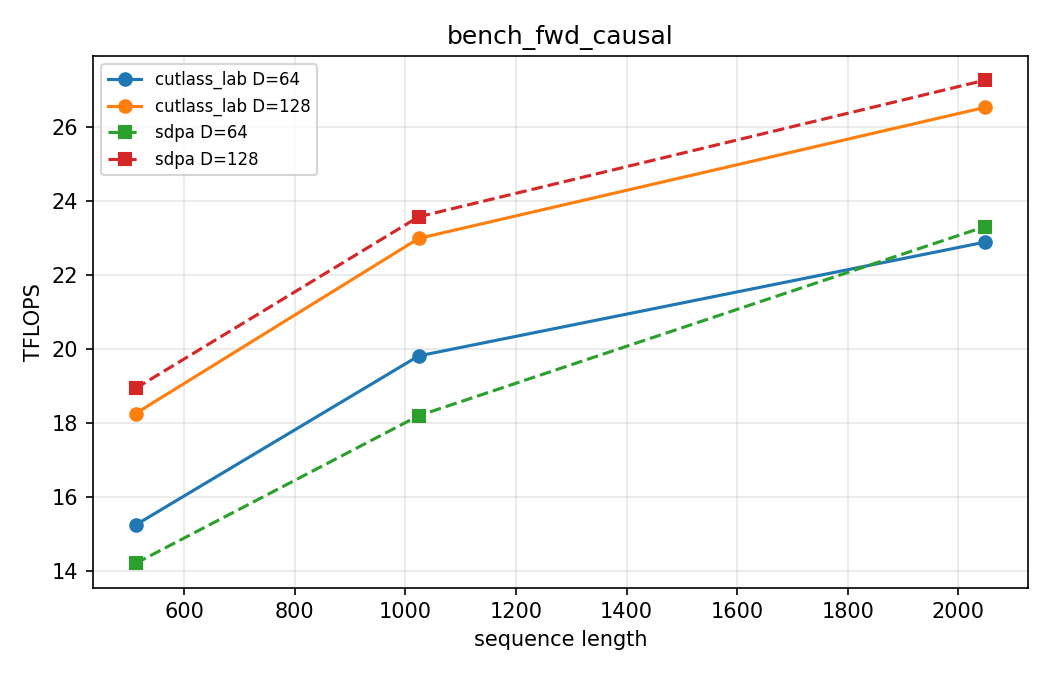
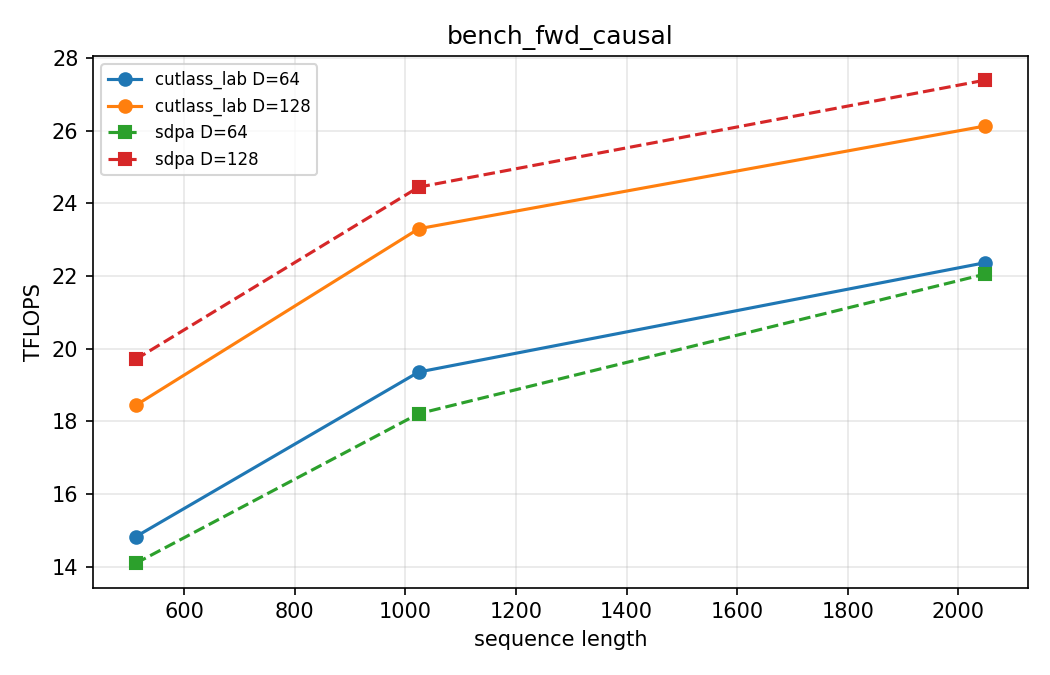
bench: add official FA2 and paged-decode comparisons

diff --git a/benchmarks/bench_decode.py b/benchmarks/bench_decode.py
@@ -1,0 +1,151 @@
+#!/usr/bin/env python3
+"""Paged-KV decode: our CuTe kernel vs official flash_attn_with_kvcache.
+
+Run with the nano-vllm Python 3.12 environment:
+  PYTHONPATH=/home/hxt/flash-attn-cutlass-lab \
+    /home/hxt/nano-vllm/.venv/bin/python benchmarks/bench_decode.py
+"""
+
+from __future__ import annotations
+
+import argparse
+import csv
+import math
+import statistics
+from pathlib import Path
+
+import torch
+
+try:
+    from flash_attn import flash_attn_with_kvcache
+    HAS_OFFICIAL = True
+except Exception:
+    flash_attn_with_kvcache = None
+    HAS_OFFICIAL = False
+
+import flash_attn_lab
+
+
+def time_ms(fn, warmup, iters, repeats):
+    for _ in range(warmup):
+        fn()
+    torch.cuda.synchronize()
+    samples = []
+    for _ in range(repeats):
+        start = torch.cuda.Event(enable_timing=True)
+        end = torch.cuda.Event(enable_timing=True)
+        start.record()
+        for _ in range(iters):
+            fn()
+        end.record()
+        torch.cuda.synchronize()
+        samples.append(start.elapsed_time(end) / iters)
+    return statistics.median(samples)
+
+
+def make_inputs(B, H, Hk, D, context, page_size, dtype):
+    max_pages = (context + page_size - 1) // page_size
+    num_pages = B * max_pages
+    k_cache = torch.randn((num_pages, page_size, Hk, D), dtype=dtype, device="cuda") * 0.5
+    v_cache = torch.randn((num_pages, page_size, Hk, D), dtype=dtype, device="cuda") * 0.5
+    block_table = torch.empty((B, max_pages), dtype=torch.int32, device="cuda")
+    for b in range(B):
+        block_table[b] = torch.randperm(num_pages, device="cuda")[:max_pages]
+    cache_seqlens = torch.full((B,), context, dtype=torch.int32, device="cuda")
+    q = torch.randn((B, 1, H, D), dtype=dtype, device="cuda") * 0.5
+    return q, k_cache, v_cache, block_table, cache_seqlens
+
+
+def main():
+    parser = argparse.ArgumentParser()
+    parser.add_argument("--dtype", default="bf16", choices=["bf16", "fp16"])
+    parser.add_argument("--batches", default="1,8")
+    parser.add_argument("--contexts", default="512,2048,4096")
+    parser.add_argument("--page-size", type=int, default=256)
+    parser.add_argument("--heads", type=int, default=16)
+    parser.add_argument("--headsk", type=int, default=8)
+    parser.add_argument("--dim", type=int, default=128)
+    parser.add_argument("--iters", type=int, default=50)
+    parser.add_argument("--warmup", type=int, default=10)
+    parser.add_argument("--repeats", type=int, default=3)
+    parser.add_argument("--out", default="benchmarks/results/bench_decode.csv")
+    args = parser.parse_args()
+
+    dtype = torch.bfloat16 if args.dtype == "bf16" else torch.float16
+    batches = [int(x) for x in args.batches.split(",") if x]
+    contexts = [int(x) for x in args.contexts.split(",") if x]
+    rows = []
+
+    for B in batches:
+        for context in contexts:
+            q, k_cache, v_cache, block_table, cache_seqlens = make_inputs(
+                B, args.heads, args.headsk, args.dim, context,
+                args.page_size, dtype,
+            )
+            scale = 1.0 / math.sqrt(args.dim)
+
+            out_ours, _ = flash_attn_lab.flash_attn_with_kvcache(
+                q, k_cache, v_cache, block_table, cache_seqlens, scale
+            )
+            if HAS_OFFICIAL:
+                out_off = flash_attn_with_kvcache(
+                    q, k_cache, v_cache,
+                    cache_seqlens=cache_seqlens,
+                    block_table=block_table,
+                    softmax_scale=scale,
+                    causal=True,
+                )
+                err = (out_ours.float() - out_off.float()).abs().max().item()
+            else:
+                err = float("nan")
+
+            t_ours = time_ms(
+                lambda: flash_attn_lab.flash_attn_with_kvcache(
+                    q, k_cache, v_cache, block_table, cache_seqlens, scale
+                ),
+                args.warmup, args.iters, args.repeats,
+            )
+            if HAS_OFFICIAL:
+                t_off = time_ms(
+                    lambda: flash_attn_with_kvcache(
+                        q, k_cache, v_cache,
+                        cache_seqlens=cache_seqlens,
+                        block_table=block_table,
+                        softmax_scale=scale,
+                        causal=True,
+                    ),
+                    args.warmup, args.iters, args.repeats,
+                )
+            else:
+                t_off = float("nan")
+            bytes_read = B * context * args.headsk * args.dim * 2 * 2
+            row = dict(
+                B=B, context=context, page_size=args.page_size,
+                H=args.heads, Hk=args.headsk, D=args.dim,
+                dtype=args.dtype,
+                ours_ms=t_ours, official_ms=t_off,
+                ours_tok_s=B / (t_ours * 1e-3),
+                official_tok_s=B / (t_off * 1e-3),
+                ours_gbps=bytes_read / (t_ours * 1e-3) / 1e9,
+                official_gbps=bytes_read / (t_off * 1e-3) / 1e9,
+                ratio=t_off / t_ours,
+                max_diff=err,
+            )
+            rows.append(row)
+            print(f"B={B:3d} ctx={context:5d} | ours {t_ours:.4f} ms "
+                  f"({row['ours_tok_s']:.1f} tok/s, {row['ours_gbps']:.1f} GB/s) | "
+                  f"official {t_off:.4f} ms ({row['official_tok_s']:.1f} tok/s, "
+                  f"{row['official_gbps']:.1f} GB/s) | speed {row['ratio']:.2f}x | "
+                  f"diff {err:.4f}")
+
+    out = Path(args.out)
+    out.parent.mkdir(parents=True, exist_ok=True)
+    with out.open("w", newline="") as f:
+        writer = csv.DictWriter(f, fieldnames=list(rows[0].keys()), lineterminator="\n")
+        writer.writeheader()
+        writer.writerows(rows)
+    print(f"\nwrote {out}")
+
+
+if __name__ == "__main__":
+    main()

diff --git a/benchmarks/bench_official.py b/benchmarks/bench_official.py
@@ -1,0 +1,148 @@
+#!/usr/bin/env python3
+"""Same-GPU comparison: our CuTe kernel vs official flash-attn 2.8.3.
+
+Run with the nano-vllm Python 3.12 environment:
+  PYTHONPATH=/home/hxt/flash-attn-cutlass-lab \
+    /home/hxt/nano-vllm/.venv/bin/python benchmarks/bench_official.py
+"""
+
+from __future__ import annotations
+
+import argparse
+import csv
+import math
+import statistics
+from pathlib import Path
+
+import torch
+from flash_attn import flash_attn_func, flash_attn_varlen_func
+
+import flash_attn_lab
+
+
+def time_ms(fn, warmup, iters, repeats):
+    for _ in range(warmup):
+        fn()
+    torch.cuda.synchronize()
+    samples = []
+    for _ in range(repeats):
+        start = torch.cuda.Event(enable_timing=True)
+        end = torch.cuda.Event(enable_timing=True)
+        start.record()
+        for _ in range(iters):
+            fn()
+        end.record()
+        torch.cuda.synchronize()
+        samples.append(start.elapsed_time(end) / iters)
+    return statistics.median(samples)
+
+
+def flops(B, H, S, D, causal):
+    valid = S * (S + 1) / 2 if causal else S * S
+    return 4.0 * B * H * valid * D
+
+
+def max_diff(a, b):
+    return (a.float() - b.float()).abs().max().item()
+
+
+def bench_fixed(B, H, Hk, S, D, dtype, causal):
+    torch.manual_seed(0)
+    q = torch.randn((B, S, H, D), dtype=dtype, device="cuda") * 0.5
+    k = torch.randn((B, S, Hk, D), dtype=dtype, device="cuda") * 0.5
+    v = torch.randn((B, S, Hk, D), dtype=dtype, device="cuda") * 0.5
+    scale = 1.0 / math.sqrt(D)
+
+    out_ours, _ = flash_attn_lab.flash_attn_func(q, k, v, causal, scale)
+    out_off = flash_attn_func(q, k, v, causal=causal, softmax_scale=scale)
+    err = max_diff(out_ours, out_off)
+
+    t_ours = time_ms(lambda: flash_attn_lab.flash_attn_func(q, k, v, causal, scale), 10, 50, 3)
+    t_off = time_ms(lambda: flash_attn_func(q, k, v, causal=causal, softmax_scale=scale), 10, 50, 3)
+    f = flops(B, H, S, D, causal)
+    return {
+        "mode": "fixed",
+        "lengths": str(S),
+        "B": B, "S": S, "H": H, "Hk": Hk, "D": D,
+        "causal": int(causal), "dtype": str(dtype).split(".")[-1],
+        "ours_ms": t_ours, "official_ms": t_off,
+        "ours_tflops": f / (t_ours * 1e-3) / 1e12,
+        "official_tflops": f / (t_off * 1e-3) / 1e12,
+        "max_diff": err,
+    }
+
+
+def bench_varlen(lengths, H, Hk, D, dtype, causal):
+    torch.manual_seed(1)
+    total = sum(lengths)
+    q = torch.randn((total, H, D), dtype=dtype, device="cuda") * 0.5
+    k = torch.randn((total, Hk, D), dtype=dtype, device="cuda") * 0.5
+    v = torch.randn((total, Hk, D), dtype=dtype, device="cuda") * 0.5
+    cu = torch.tensor([0] + list(torch.cumsum(torch.tensor(lengths), 0).tolist()),
+                      dtype=torch.int32, device="cuda")
+    max_s = max(lengths)
+    scale = 1.0 / math.sqrt(D)
+
+    out_ours, _ = flash_attn_lab.flash_attn_varlen_func(q, k, v, cu, cu, causal, scale)
+    out_off = flash_attn_varlen_func(
+        q, k, v, cu, cu, max_s, max_s, causal=causal, softmax_scale=scale
+    )
+    err = max_diff(out_ours, out_off)
+
+    t_ours = time_ms(
+        lambda: flash_attn_lab.flash_attn_varlen_func(q, k, v, cu, cu, causal, scale),
+        10, 50, 3,
+    )
+    t_off = time_ms(
+        lambda: flash_attn_varlen_func(
+            q, k, v, cu, cu, max_s, max_s, causal=causal, softmax_scale=scale
+        ),
+        10, 50, 3,
+    )
+    f = sum(flops(1, H, s, D, causal) for s in lengths)
+    return {
+        "mode": "varlen",
+        "lengths": (f"{len(lengths)}x{lengths[0]}"
+                    if len(set(lengths)) == 1 else "mixed"),
+        "B": len(lengths), "S": max_s, "H": H, "Hk": Hk, "D": D,
+        "causal": int(causal), "dtype": str(dtype).split(".")[-1],
+        "ours_ms": t_ours, "official_ms": t_off,
+        "ours_tflops": f / (t_ours * 1e-3) / 1e12,
+        "official_tflops": f / (t_off * 1e-3) / 1e12,
+        "max_diff": err,
+    }
+
+
+def main():
+    parser = argparse.ArgumentParser()
+    parser.add_argument("--dtype", default="bf16", choices=["bf16", "fp16"])
+    parser.add_argument("--out", default="benchmarks/results/bench_vs_official.csv")
+    args = parser.parse_args()
+
+    dtype = torch.bfloat16 if args.dtype == "bf16" else torch.float16
+    rows = []
+    for causal in (False, True):
+        for S in (512, 1024, 2048):
+            rows.append(bench_fixed(1, 16, 8, S, 128, dtype, causal))
+        rows.append(bench_varlen([512, 1024, 2048], 16, 8, 128, dtype, causal))
+        rows.append(bench_varlen([16] * 32, 16, 8, 128, dtype, causal))
+
+    out = Path(args.out)
+    out.parent.mkdir(parents=True, exist_ok=True)
+    with out.open("w", newline="") as f:
+        writer = csv.DictWriter(f, fieldnames=list(rows[0].keys()), lineterminator="\n")
+        writer.writeheader()
+        writer.writerows(rows)
+
+    print(f"{'mode':7s} {'S':>5s} {'causal':>6s} {'ours ms':>8s} {'off ms':>8s} "
+          f"{'ours TF':>8s} {'off TF':>8s} {'ratio':>6s} {'maxdiff':>9s}")
+    for r in rows:
+        ratio = r["ours_tflops"] / r["official_tflops"]
+        print(f"{r['mode']:7s} {r['S']:5d} {r['causal']:6d} {r['ours_ms']:8.4f} "
+              f"{r['official_ms']:8.4f} {r['ours_tflops']:8.2f} "
+              f"{r['official_tflops']:8.2f} {ratio:6.2f} {r['max_diff']:9.4f}")
+    print(f"\nwrote {out}")
+
+
+if __name__ == "__main__":
+    main()

diff --git a/benchmarks/bench_fwd.py b/benchmarks/bench_fwd.py
@@ -156,7 +156,7 @@ def main():
 
     fieldnames = list(rows[0].keys())
     with out_path.open("w", newline="") as f:
-        writer = csv.DictWriter(f, fieldnames=fieldnames)
+        writer = csv.DictWriter(f, fieldnames=fieldnames, lineterminator="\n")
         writer.writeheader()
         writer.writerows(rows)
     print(f"\nwrote {out_path} ({len(rows)} rows)")
